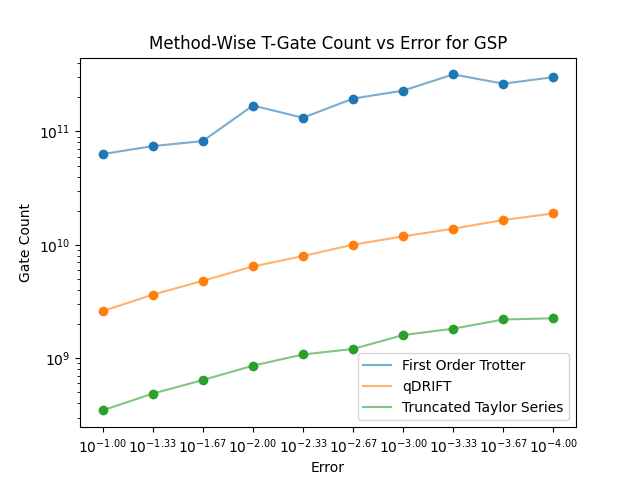
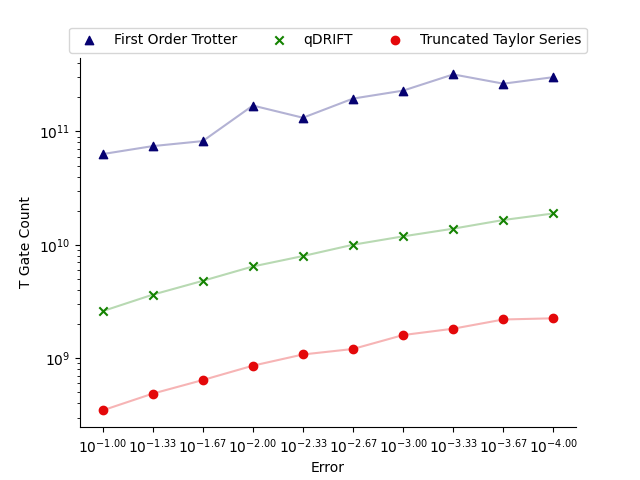
Tgate plots

diff --git a/ising/benchmark/molecule/plot_t_gate_eps.py b/ising/benchmark/molecule/plot_t_gate_eps.py
@@ -4,9 +4,15 @@ from matplotlib import pyplot as plt
 from ising.hamiltonian import Hamiltonian, parse, parametrized_ising
 
 colors: dict[str, str] = {
-    "Truncated Taylor Series": "blue",
-    "First Order Trotter": "purple",
-    "qDRIFT": "yellow",
+    "Truncated Taylor Series": "#E4080A",
+    "First Order Trotter": "#060171",
+    "qDRIFT": "#148301",
+}
+
+markers: dict[str, str] = {
+    "Truncated Taylor Series": "o",
+    "First Order Trotter": "^",
+    "qDRIFT": "x",
 }
 
 
@@ -27,8 +33,8 @@ def plot_dictionaries(name: str, depths: dict[str, dict[float, int]]):
     for method, data in depths.items():
         errors = list(data.keys())
         gates = list(data.values())
-        plt.plot(errors, gates, label=method, alpha=0.6)
-        plt.scatter(errors, gates)
+        plt.plot(errors, gates, color=colors[method], alpha=0.3)
+        plt.scatter(errors, gates, color=colors[method], label=method, marker=markers[method])
 
     ax.set_xticks(errors)
 
@@ -36,12 +42,16 @@ def plot_dictionaries(name: str, depths: dict[str, dict[float, int]]):
 
     ax.set_xticklabels(labels)
 
+    # Remove the top and right border
+    ax.spines['top'].set_visible(False)
+    ax.spines['right'].set_visible(False)
+
     # Add labels for each group
     plt.xlabel("Error")
-    plt.ylabel("Gate Count")
-    plt.title(f"Method-Wise T-Gate Count vs Error for GSP for {name}")
+    plt.ylabel("T Gate Count")
+    # plt.title(f"Method-Wise T-Gate Count vs Error for GSP for {name}")
     ax.set_yscale("log")
-    plt.legend()
+    plt.legend(loc="upper center", bbox_to_anchor=(0.5, 1.10), ncol=3, fontsize=10)
 
     file_name = f"plots/benchmark/molecule/tgatecount/{name}.png"
     plt.savefig(file_name)
@@ -49,7 +59,7 @@ def plot_dictionaries(name: str, depths: dict[str, dict[float, int]]):
 
 
 def main():
-    name = "ethane"
+    name = "methane"
     gate_dicts = get_gate_count_gsp(name)
     print(gate_dicts)
     plot_dictionaries(name, gate_dicts)

diff --git a/ising/benchmark/molecule/t_gate_eps_count.py b/ising/benchmark/molecule/t_gate_eps_count.py
@@ -47,7 +47,7 @@ def fixed_everything(
 
 
 def main():
-    name = "ethane"
+    name = "ozone"
     molecule = parse(name)
     print(f"Running for {name}")
     obs_norm = 1
